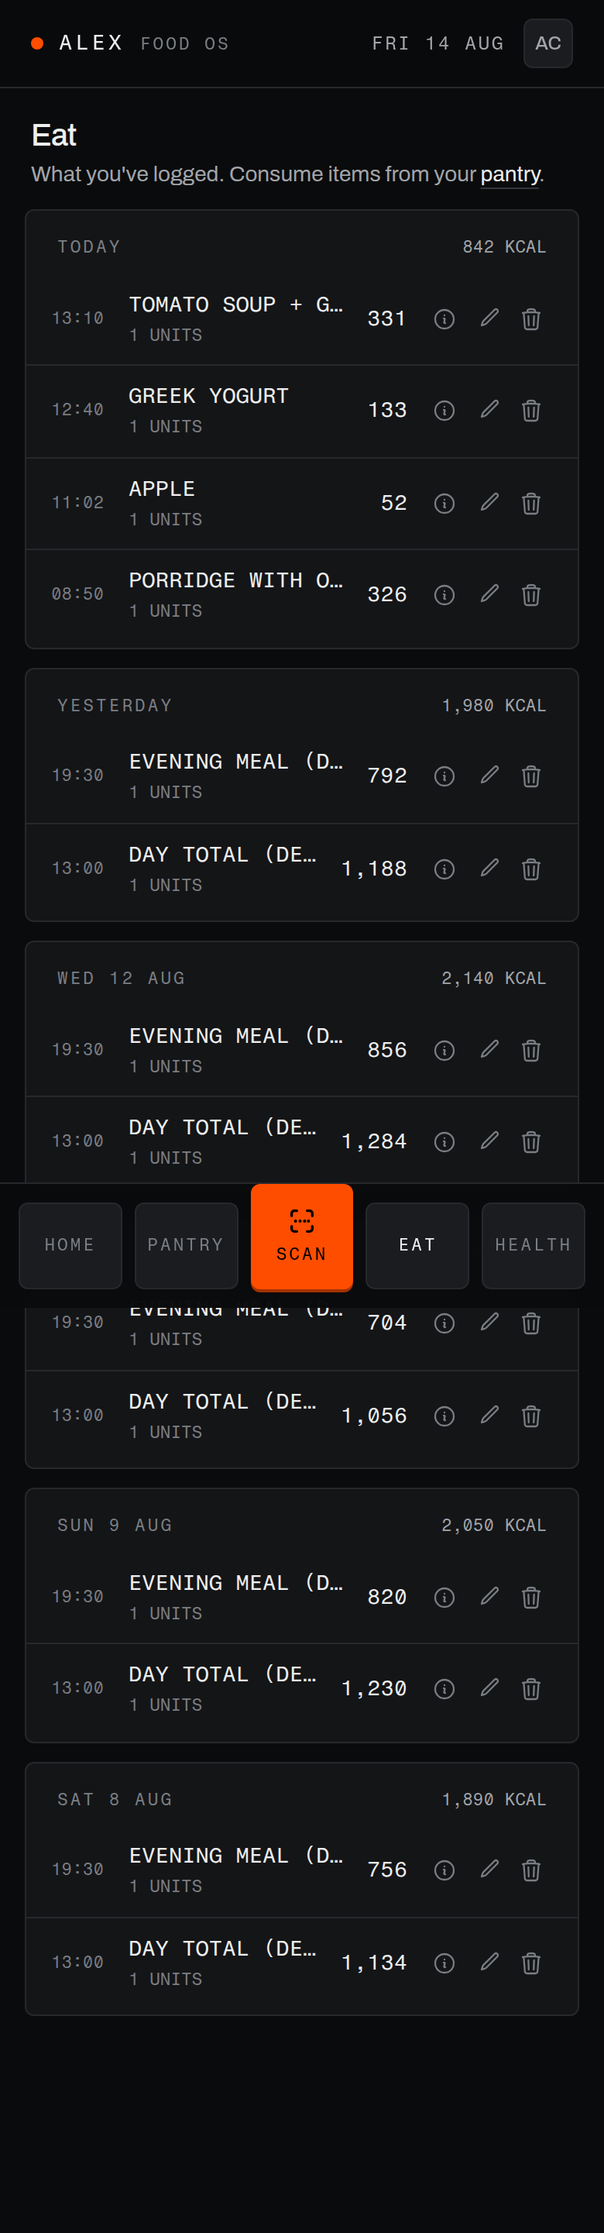
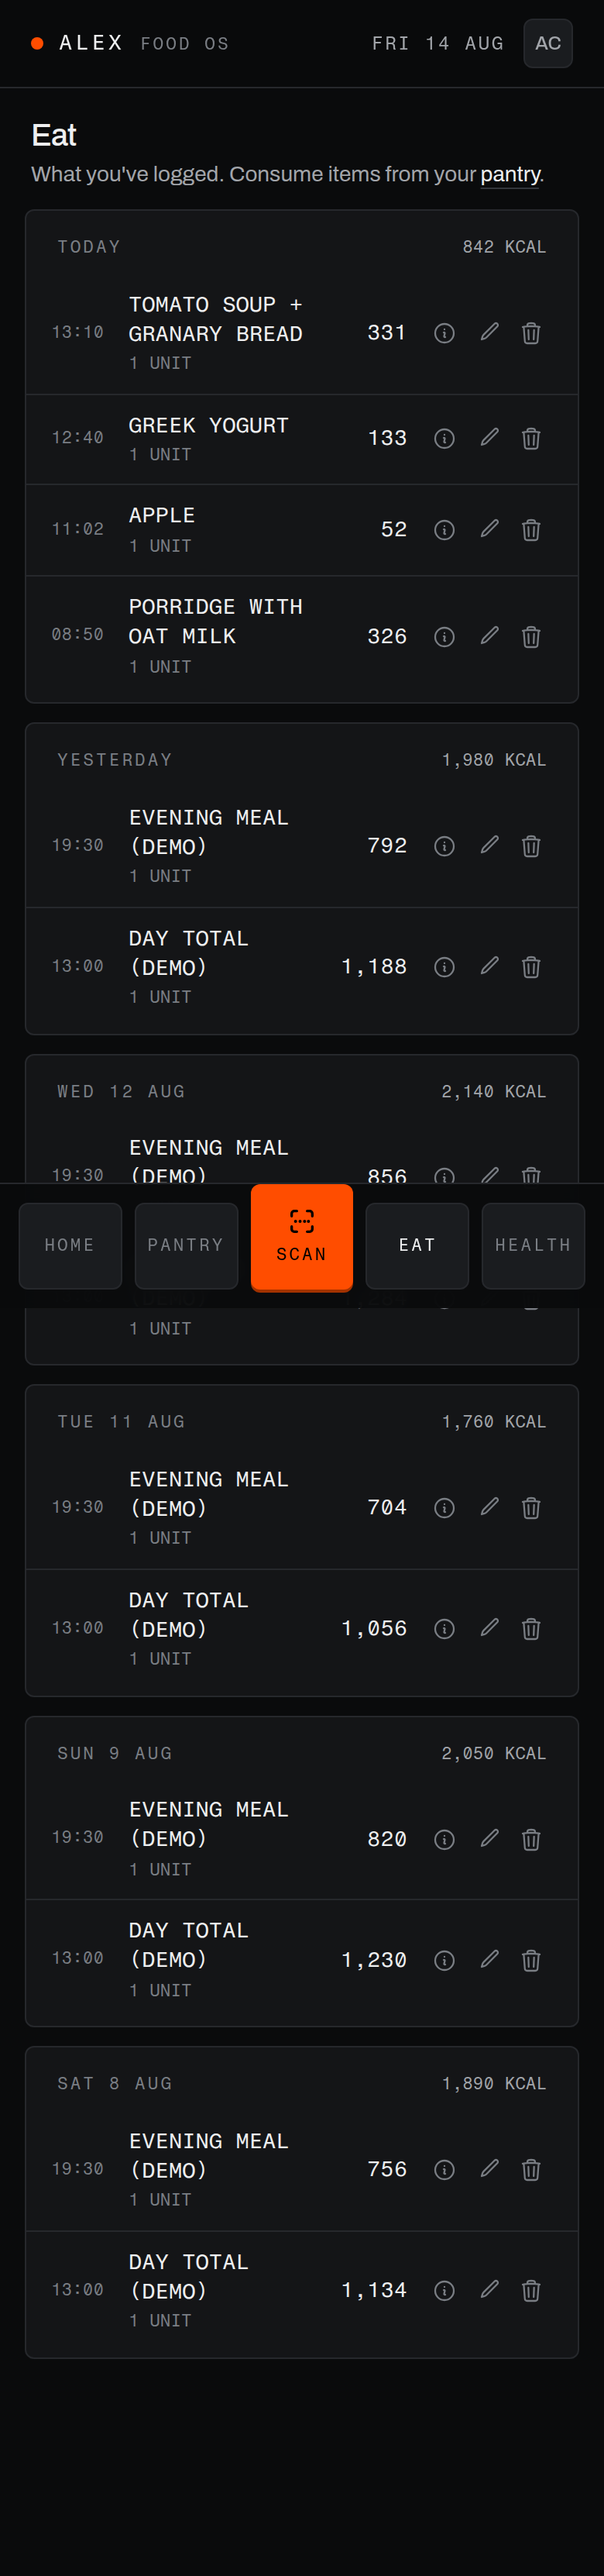
Apply finish-review fixes: comp-scale reward stamp, dominant readout
All eight material findings from the finish review, in one batch:
- Scan done step scales to the comp's stamp (two-line display ADDED TO
  PANTRY, enlarged check, taller green field) and gains the ITEM plate's
  mono nutrition stamp plus a truthful provenance line (barcode +
  verified-match/best-guess; source and confidence deliberately omitted
  where the component holds neither).
- Home's DSEG7 readout enlarged to focal scale; TODAY footer restores
  count + last-log time; protein meter fill keyed to its band.
- One chip fill rule (OK now filled at 70% good); FOCUS dot cyan per
  comp; Eat names wrap instead of truncating; quantity-aware unit
  labels (QuantityUnit::shortLabelFor); drawn SVG arrow replaces the
  unicode glyph; top-bar initials key recorded as a comp amendment.
- Blade fix: directives glued to word characters don't compile —
  rewrote inline conditionals as echo expressions.
Suite green (215 passed); fixed screens recaptured, including the scan
done step (driven via Livewire state) in .impeccable/review/.

Claude-Session: https://claude.ai/code/session_01CB7PFqzZhRNtJCWK1jVMjS

diff --git a/resources/views/livewire/home.blade.php b/resources/views/livewire/home.blade.php
@@ -22,6 +22,9 @@ new #[Layout('components.layouts.app', ['title' => 'Home'])] class extends Compo
             'today' => $analytics->dailySummary($user),
             'streakDays' => $week['daily'],
             'daysLogged' => $week['meal_regularity']['days_logged'],
+            'lastLoggedAt' => $user->consumptionEvents()
+                ->whereDate('consumed_at', now()->toDateString())
+                ->max('consumed_at'),
         ];
     }
 }; ?>
@@ -34,10 +37,10 @@ new #[Layout('components.layouts.app', ['title' => 'Home'])] class extends Compo
             <h2 class="silkscreen">Today</h2>
 
             @php($kcal = $today['totals']['calories'])
-            <p class="mt-5 flex items-baseline justify-center gap-3">
-                <span class="font-seg text-[3.4rem] leading-none {{ $today['has_data'] && $kcal !== null ? 'text-[#f2ede2]' : 'text-ink-faint' }}"
+            <p class="mt-6 flex items-baseline justify-center gap-3">
+                <span class="font-seg text-[clamp(4.2rem,17vw,5.4rem)] leading-none {{ $today['has_data'] && $kcal !== null ? 'text-[#f2ede2]' : 'text-ink-faint' }}"
                       aria-label="{{ $kcal !== null ? number_format((float) $kcal).' kilocalories today' : 'No calories logged yet today' }}">{{ $kcal !== null ? number_format((float) $kcal, 0, '', '') : '----' }}</span>
-                <span class="data text-sm text-ink-dim">KCAL</span>
+                <span class="data text-base text-ink-dim">KCAL</span>
             </p>
 
             {{-- Calibrated scale, 0–2500 kcal; the marker is the day's reading. --}}
@@ -59,7 +62,7 @@ new #[Layout('components.layouts.app', ['title' => 'Home'])] class extends Compo
 
             @if ($today['has_data'])
                 <p class="data mt-4 border-t border-seam pt-3 text-[11px] tracking-[0.08em] text-ink-faint uppercase">
-                    {{ $today['food_variety'] }} {{ $today['food_variety'] === 1 ? 'food' : 'foods' }} logged today
+                    {{ $today['food_variety'] }} {{ $today['food_variety'] === 1 ? 'food' : 'foods' }} logged{{ $lastLoggedAt ? ' · last '.\Illuminate\Support\Carbon::parse($lastLoggedAt)->format('H:i') : '' }}
                 </p>
             @else
                 <p class="mt-4 border-t border-seam pt-3 text-sm text-ink-dim">
@@ -71,8 +74,21 @@ new #[Layout('components.layouts.app', ['title' => 'Home'])] class extends Compo
         {{-- Macro tiles: bars show each macro's share of today's largest, a
              relative composition reading, not a target. --}}
         @if ($today['has_data'])
+            @php($bandFill = [
+                \App\Services\NutritionAnalyticsService::BAND_GOOD => 'var(--color-good)',
+                \App\Services\NutritionAnalyticsService::BAND_OK => 'var(--color-good)',
+                \App\Services\NutritionAnalyticsService::BAND_LOW => 'var(--color-low)',
+                \App\Services\NutritionAnalyticsService::BAND_SLIGHTLY_HIGH => 'var(--color-high)',
+            ])
+            @php($proteinBand = collect($today['indicators'])->firstWhere('label', 'Protein'))
             @php($macros = collect(['protein' => 'Protein', 'carbs' => 'Carbs', 'fat' => 'Fat'])
-                ->map(fn ($label, $key) => ['label' => $label, 'value' => $today['totals'][$key]]))
+                ->map(fn ($label, $key) => [
+                    'label' => $label,
+                    'value' => $today['totals'][$key],
+                    'fill' => $key === 'protein' && ($proteinBand['known'] ?? false)
+                        ? ($bandFill[$proteinBand['band']] ?? null)
+                        : null,
+                ]))
             @php($macroMax = max(array_filter($macros->pluck('value')->all(), fn ($v) => $v !== null) ?: [0]))
             <section class="module grid grid-cols-3 divide-x divide-seam" aria-label="Macronutrients today">
                 @foreach ($macros as $m)
@@ -82,7 +98,7 @@ new #[Layout('components.layouts.app', ['title' => 'Home'])] class extends Compo
                             {{ $m['value'] === null ? '—' : rtrim(rtrim(number_format((float) $m['value'], 1), '0'), '.') }}<span class="text-xs text-ink-dim">g</span>
                         </p>
                         <div class="meter mt-2.5">
-                            <span style="width: {{ $m['value'] !== null && $macroMax > 0 ? round($m['value'] / $macroMax * 100) : 0 }}%"></span>
+                            <span style="width: {{ $m['value'] !== null && $macroMax > 0 ? round($m['value'] / $macroMax * 100) : 0 }}%; {{ $m['fill'] ? 'background:'.$m['fill'] : '' }}"></span>
                         </div>
                     </div>
                 @endforeach

diff --git a/resources/views/livewire/scan.blade.php b/resources/views/livewire/scan.blade.php
@@ -541,14 +541,14 @@ new #[Layout('components.layouts.app', ['title' => 'Scan'])] class extends Compo
             {{-- STEP 4 — Done: the machine stamps the win (design brief). --------}}
             @if ($step === 'done')
                 <div class="space-y-3">
-                    <div class="stamp-in rounded-md bg-good px-5 pb-3 pt-5 text-black">
-                        <div class="flex items-center gap-4">
-                            <svg class="size-9 shrink-0" viewBox="0 0 24 24" fill="none" stroke="currentColor" stroke-width="3" stroke-linecap="round" stroke-linejoin="round" aria-hidden="true">
+                    <div class="stamp-in rounded-md bg-good px-6 pb-4 pt-7 text-black">
+                        <div class="flex items-center gap-5">
+                            <svg class="size-20 shrink-0" viewBox="0 0 24 24" fill="none" stroke="currentColor" stroke-width="3.2" stroke-linecap="round" stroke-linejoin="round" aria-hidden="true">
                                 <path d="M4 12.5l5.5 5.5L20 6.5" />
                             </svg>
-                            <p class="text-2xl font-semibold tracking-tight uppercase">Added to pantry</p>
+                            <p class="text-[2.6rem] font-bold leading-[0.95] tracking-tight uppercase">Added to<br>pantry</p>
                         </div>
-                        <div class="led-sweep mt-4 flex justify-between" aria-hidden="true">
+                        <div class="led-sweep mt-6 flex justify-between" aria-hidden="true">
                             @for ($i = 0; $i < 16; $i++)
                                 <span class="led led-good"></span>
                             @endfor
@@ -558,6 +558,24 @@ new #[Layout('components.layouts.app', ['title' => 'Scan'])] class extends Compo
                     <div class="module px-5 pb-4 pt-4">
                         <h2 class="silkscreen">Item</h2>
                         <p class="mt-2 text-lg font-medium text-ink">{{ $addedProductName }}</p>
+                        @php($fmtStamp = fn ($v) => rtrim(rtrim(number_format((float) $v, 1, '.', ''), '0'), '.'))
+                        @php($stamp = $nutrition === null ? null : collect([
+                            $nutrition->calories !== null ? $fmtStamp($nutrition->calories).' KCAL' : null,
+                            $nutrition->protein !== null ? $fmtStamp($nutrition->protein).'P' : null,
+                            $nutrition->carbs !== null ? $fmtStamp($nutrition->carbs).'C' : null,
+                            $nutrition->fat !== null ? $fmtStamp($nutrition->fat).'F' : null,
+                        ])->filter()->implode(' · '))
+                        <p class="data mt-2 text-xs text-ink-dim">
+                            @if ($stamp)
+                                {{ $stamp }}@if ($nutritionBasis) <span class="text-ink-faint uppercase">· {{ $nutritionBasis }}</span> @endif
+                            @else
+                                <span class="text-ink-faint">NUTRITION ----</span>
+                            @endif
+                        </p>
+                        {{-- Provenance is first-class (brief §2.2): only facts we hold. --}}
+                        <p class="data mt-1.5 border-t border-seam pt-2 text-[11px] tracking-[0.06em] text-ink-faint uppercase">
+                            {{ $detectedBarcode !== '' ? 'Barcode '.$detectedBarcode.' · ' : '' }}{{ $isSuggestion ? 'Best guess — confirmed by you' : 'Verified match' }}
+                        </p>
                     </div>
 
                     {{-- Reward strip: the counters that just moved. --}}
@@ -567,8 +585,9 @@ new #[Layout('components.layouts.app', ['title' => 'Scan'])] class extends Compo
                             +1 ITEM
                         </span>
                         @if ($pantryCount !== null)
-                            <span class="chip border-seam-strong !py-2 text-ink-dim">
-                                ↗ PANTRY {{ $pantryCount }} {{ $pantryCount === 1 ? 'ITEM' : 'ITEMS' }}
+                            <span class="chip inline-flex items-center gap-1.5 border-seam-strong !py-2 text-ink-dim">
+                                <svg class="size-3" viewBox="0 0 24 24" fill="none" stroke="currentColor" stroke-width="2.5" stroke-linecap="round" stroke-linejoin="round" aria-hidden="true"><path d="M7 17L17 7M9 7h8v8" /></svg>
+                                PANTRY {{ $pantryCount }} {{ $pantryCount === 1 ? 'ITEM' : 'ITEMS' }}
                             </span>
                         @endif
                     </div>

diff --git a/resources/views/livewire/eat.blade.php b/resources/views/livewire/eat.blade.php
@@ -142,10 +142,10 @@ new #[Layout('components.layouts.app', ['title' => 'Eat'])] class extends Compon
                                 <div class="flex min-h-[44px] items-center gap-2.5 px-4 py-2.5">
                                     <span class="data w-10 shrink-0 text-[11px] text-ink-faint">{{ $event->consumed_at->format('H:i') }}</span>
                                     <div class="min-w-0 flex-1">
-                                        <p class="data truncate text-sm text-ink uppercase">{{ $event->name ?: 'Consumption' }}</p>
+                                        <p class="data text-sm leading-snug text-ink uppercase">{{ $event->name ?: 'Consumption' }}</p>
                                         <p class="data mt-0.5 text-[11px] text-ink-faint">
                                             {{ rtrim(rtrim(number_format((float) ($line->quantity ?? 0), 3, '.', ''), '0'), '.') }}
-                                            <span class="uppercase">{{ $line?->unit?->shortLabel() ?? '' }}</span>
+                                            <span class="uppercase">{{ $line?->unit?->shortLabelFor((float) ($line->quantity ?? 0)) ?? '' }}</span>
                                         </p>
                                     </div>
                                     <span class="data shrink-0 whitespace-nowrap text-sm text-ink">

diff --git a/resources/views/livewire/pantry.blade.php b/resources/views/livewire/pantry.blade.php
@@ -186,7 +186,7 @@ new #[Layout('components.layouts.app', ['title' => 'Pantry'])] class extends Com
                                 </span>
                                 <span class="data shrink-0 text-sm text-ink">
                                     {{ rtrim(rtrim(number_format((float) $item->current_quantity, 3, '.', ''), '0'), '.') }}
-                                    <span class="text-[11px] text-ink-faint uppercase">{{ $item->quantity_unit->shortLabel() }}</span>
+                                    <span class="text-[11px] text-ink-faint uppercase">{{ $item->quantity_unit->shortLabelFor((float) $item->current_quantity) }}</span>
                                 </span>
                             </a>
                         </li>

diff --git a/resources/views/livewire/insight-card.blade.php b/resources/views/livewire/insight-card.blade.php
@@ -81,18 +81,11 @@ new class extends Component
 
 <div>
     @if ($insight)
-        @php
-            $dot = match ($insight->priority) {
-                'high' => 'bg-low',
-                'medium' => 'bg-info',
-                default => 'bg-ink-faint',
-            };
-        @endphp
 
         <div class="module px-5 pb-4 pt-4">
             <div class="flex items-center justify-between">
                 <h2 class="silkscreen">Focus</h2>
-                <span class="size-2 rounded-full {{ $dot }}" aria-hidden="true"></span>
+                <span class="size-2 rounded-full bg-info" aria-hidden="true"></span>
             </div>
 
             <h3 class="mt-3 text-base font-medium text-ink">{{ $insight->title }}</h3>

diff --git a/resources/views/livewire/pantry-item.blade.php b/resources/views/livewire/pantry-item.blade.php
@@ -129,7 +129,7 @@ new #[Layout('components.layouts.app', ['title' => 'Item'])] class extends Compo
 
             <p class="mt-5 flex items-baseline gap-2">
                 <span class="data text-4xl text-ink">{{ rtrim(rtrim(number_format((float) $pantryItem->current_quantity, 3, '.', ''), '0'), '.') }}</span>
-                <span class="data text-sm text-ink-dim uppercase">{{ $pantryItem->quantity_unit->shortLabel() }} remaining</span>
+                <span class="data text-sm text-ink-dim uppercase">{{ $pantryItem->quantity_unit->shortLabelFor((float) $pantryItem->current_quantity) }} remaining</span>
             </p>
 
             @if ($pantryItem->purchased_at || $pantryItem->expiry_date)

diff --git a/resources/views/components/app/indicators.blade.php b/resources/views/components/app/indicators.blade.php
@@ -8,7 +8,7 @@
 @php
     $chip = [
         \App\Services\NutritionAnalyticsService::BAND_GOOD => 'bg-good text-black',
-        \App\Services\NutritionAnalyticsService::BAND_OK => 'border-good/60 text-good',
+        \App\Services\NutritionAnalyticsService::BAND_OK => 'bg-good/70 text-black',
         \App\Services\NutritionAnalyticsService::BAND_LOW => 'bg-low text-black',
         \App\Services\NutritionAnalyticsService::BAND_SLIGHTLY_HIGH => 'bg-high text-black',
         \App\Services\NutritionAnalyticsService::BAND_UNKNOWN => 'border-seam-strong text-ink-faint',

diff --git a/app/Enums/QuantityUnit.php b/app/Enums/QuantityUnit.php
@@ -44,6 +44,16 @@ enum QuantityUnit: string
         };
     }
 
+    /** Quantity-aware label: "1 unit" but "2 units"; g/ml are invariant. */
+    public function shortLabelFor(float $quantity): string
+    {
+        $label = $this->shortLabel();
+
+        return abs($quantity - 1.0) < 1e-9 && ! in_array($this, [self::Gram, self::Millilitre], true)
+            ? \Illuminate\Support\Str::singular($label)
+            : $label;
+    }
+
     /** @return array<int, array{value: string, label: string}> */
     public static function options(): array
     {
